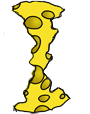
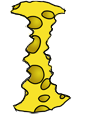
More moons

Changed region(s): [[0.1111, 0.0263, 0.4222, 1.0], [0.4667, 0.0789, 0.8, 0.8684], [0.0444, 0.2632, 0.0667, 0.3158]]

diff --git a/pyweek17.py b/pyweek17.py
@@ -39,7 +39,7 @@ textures = {
     'cat': bacon.Image('res/cat.png')
 }
 
-moon_eated_states = [100, 75, 50, 25, 5]
+moon_eated_states = [100, 75, 50, 25, 15, 5]
 
 font_16 = bacon.Font(None, 16)
 font_24 = bacon.Font(None, 24)
@@ -139,7 +139,7 @@ class Moon(RoundSprite):
                 break
 
         if self.health < 0:
-            scene.game = GameOverScreen(self)
+            scene.game = GameOverScreen(scene.game)
 
 class Cat(RoundSprite):
     def __init__(self, pos, direction, power):
@@ -429,7 +429,7 @@ class GameOverScreen(bacon.Game):
 
             if self.t > 0:
                 self.t -= bacon.timestep / GAME_OVER_FADETEXT
-                
+
             if self.state == "game-over" and self.t <= 0:
                 self.t = 1
                 self.state = "game-over-score"
